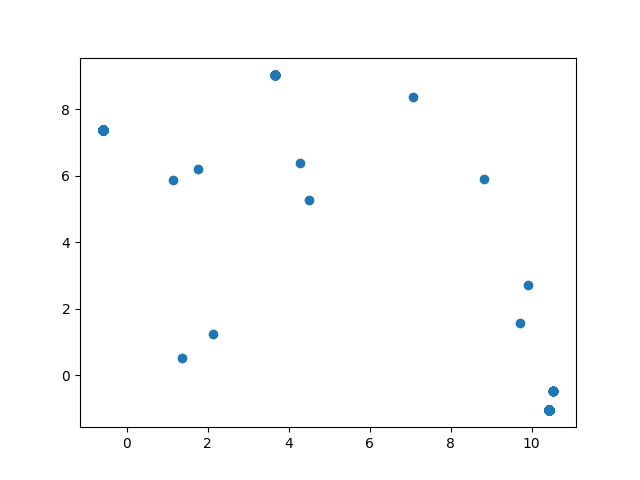
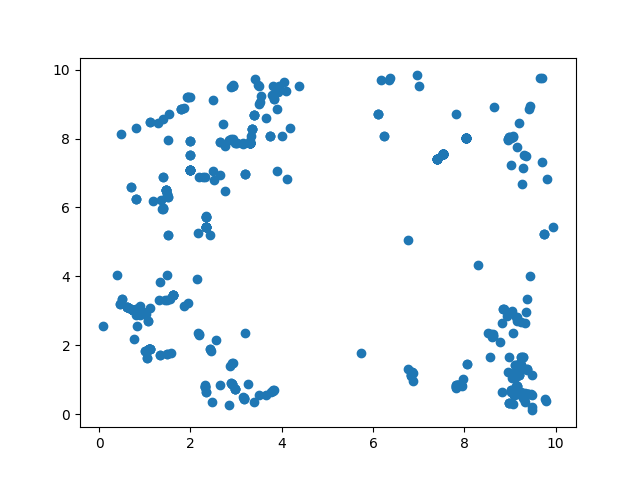
Improved clustering.

diff --git a/main.py b/main.py
@@ -7,6 +7,7 @@
 AB_lengths = []
 debug = False
 
+
 import numpy as np
 
 
@@ -36,23 +37,23 @@ def normalize_2D(matrix):
     return matrix
 
 
-from sklearn.datasets.samples_generator import make_blobs
-AG, y = make_blobs(n_samples=50, centers=5, n_features=2, random_state=0)
-AB = np.random.rand(10,2)*10
 
 haf_cell_index=0
 
-def main(AG,AB,iterations): 
+def main(AG, AB, iterations, p_select, n_clones, learn_rate, p_haf_cells, M_threshold): 
     i=0
+
+    print ("AB Shape:")
+    print (AB.shape)
+
     while (i<iterations):
 
-        p_select, n_clones, learn_rate, select_percent_of_haf_cells, M_threshold = 0.9, 10, 0.5, 1, 0.8
 
         # Set of cell affinities. 
         D = [[np.linalg.norm(ag-ab) for ab in AB] for ag in AG] 
 
         # Arrayify. 
-        D=np.array(D) 
+        D = np.array(D) 
 
         # Set of high affinity (low Euclidean distance) cells.
         H = [list(AB[d[haf_cell_index]]) for d in D.argsort()]
@@ -91,34 +92,40 @@ def main(AG,AB,iterations):
 
         # Clone the cells. 
         H = np.repeat(H,N,axis=0)
+        D = np.repeat(D,N,axis=0)
+
+        if debug:
+            print ("H (Pre-Mutated): ")
+            print (H.shape)
 
         # Mutate the clones.
-        H = np.array([h-learn_rate*(h-AG) for h in H])
+        # Learn rate d is proportional to distance.
+        H = np.array([h-(1-d)*(h-AG) for h,d in zip(H,D)])
 
         if debug:
             print ("H (Mutated): ")
-            print (H)
+            print (H.shape)
 
         # Reduce the dimensionality from 3D to 2D (results from broadcasting the (1,n) dimensional cells to (m,n) dimensions for subtraction)
         H = np.reshape(H, (H.shape[0]*H.shape[1], H.shape[2]))
 
         if debug:
             print ("H: 3D->2D")
-            print (H) 
+            print (H.shape) 
 
         # Calculate the affinity values of the mutated cells. 
         D = np.array([[np.linalg.norm(ag-ab) for ab in H] for ag in AG])
 
         if debug:
-            print ("D:")
-            print (D)
+            print ("D before argsort:")
+            print (D.shape)
         
         # Store the affinity values of the highest affinity mutated cells. 
         HD = [D[i][d[haf_cell_index]] for (i,d) in enumerate(D.argsort())]
 
         if debug:
-            print ("HD:")
-            print (HD)
+            print ("HD after argsort:")
+            print (np.array(HD).shape)
 
         # Find and store the highest affinity mutated cells.
         H = [H[d[haf_cell_index]].tolist() for d in D.argsort()]
@@ -126,63 +133,97 @@ def main(AG,AB,iterations):
 
         if debug:
             print ("H:")
-            print (H)
+            print (H.shape)
 
         # Select a percentage of the highest affinity cells and store in set M as "memory cells".  
-        M = H[:int((select_percent_of_haf_cells)*H.shape[0])]
-
-        if debug:
-            print ("M:")
-            print (M)
+        M = H[:int((p_haf_cells)*H.shape[0])]
 
         # Convert M to an array for computing similarity values S. 
         M = np.array(M) 
 
         if debug:
             print ("M:")
-            print (M)
+            print (M.shape)
 
         # Calculate the similarity between memory cells (self-detection). 
         S = np.array([[np.linalg.norm(np.array(mx)-np.array(my)) for mx in M] for my in M])
 
         if debug:
             print ("S:")
-            print (S)
+            print (S.shape)
 
         # Normalize to reduce the effects of variance. 
         S = normalize_2D(S)
 
         if debug:
-            print (S)
+            print (S.shape)
 
         # Remove the lower half of the triangular matrix to stop the double selection of high affinity memory cells. 
-        S = [[S[i][j] if j >= i+1 else 0 for j in range(S.shape[1])] for i in range(S.shape[0]-1)]
+        #S = [[S[i][j] if j >= i+1 else 0 for j in range(S.shape[1])] for i in range(S.shape[0]-1)]
 
         # Convert S to an array to use to find and match similarity values with corresponding memory cells.
         S = np.array(S)
         
+        # Clonal suppression. 
         # Memory cells with self-similarity values greater than the threshold are selected - because they detect antigens instead of themselves.
-        Mp = M[np.argwhere(S>M_threshold)[:,1]]
+        Mp = M[list(set(np.argwhere(S>M_threshold)[:,1]))]
 
         # Add the memory cells to the full immune network.
         AB = np.append(AB,Mp,axis=0)
 
+        # Network suppression. 
+        S = np.array([[np.linalg.norm(np.array(abx)-np.array(aby)) for abx in AB] for aby in AB])
+
+        # Remove the lower half of the triangular matrix. 
+        #S = [[S[i][j] if j >= i+1 else 0 for j in range(S.shape[1])] for i in range(S.shape[0]-1)]
+
+        S = np.array(S) 
+
         if debug:
-            print (AB.shape) 
+            print ("S0:")
+            print (S.shape)
+
+        AB = AB[list(set(np.argwhere(S>M_threshold)[:,1]))]
+
+        print (AB.shape) 
 
         i+=1
-    return AG,AB 
+    return AB 
 
-AG, AB = main(AG, AB, 1)
-print (AB)
-import matplotlib.pyplot as plt
-from mpl_toolkits.mplot3d import Axes3D
+AG = np.random.rand(100,2)*10
+print (AG.shape)
+# p_select, n_clones, learn_rate, p_haf_cells, M_threshold
+# 0.9, 10, 0.5, 1, 0.8
 
+""" 
+    With the number of antibodies less than antigens (by a factor of 10), then clustering increases in accuracy. 
+"""
 
-plt.scatter(AB[:,0], AB[:,1])
-plt.savefig("AB.png")
-plt.clf()
+def execute(AG=AG, iterations=10, p_select=0.2, n_clones=10, learn_rate=0.5, p_haf_cells=1, M_threshold=0.8, n_experiment=1):
+    
 
-plt.scatter(AG[:,0], AG[:,1])
-plt.savefig("AG.png")
-plt.clf()
+    AB = np.random.rand(10,2)*10
+    AB = main(AG, AB, iterations=iterations, p_select=p_select, n_clones=n_clones, learn_rate=learn_rate, p_haf_cells=p_haf_cells, M_threshold=M_threshold)
+    
+    #print (AB.shape)
+    
+    import matplotlib.pyplot as plt
+    from mpl_toolkits.mplot3d import Axes3D
+
+    title = 0.1+(0.1*n_experiment)
+    #plt.title("p_select=" + str(title))
+    plt.scatter(AB[:,0], AB[:,1])
+    plt.savefig("AB" + str(n_experiment) + ".png")
+    plt.clf()
+
+    #plt.title("p_select=" + str(title))
+    plt.scatter(AG[:,0], AG[:,1])
+    plt.savefig("AG" + str(n_experiment) + ".png")
+    plt.clf()
+
+execute(n_experiment=1)
+# execute(p_select=0.3, n_experiment=2)
+# execute(p_select=0.5, n_experiment=3)
+# execute(p_select=0.7, n_experiment=4)
+# execute(p_select=0.9, n_experiment=5)
+# execute(p_select=1.0, n_experiment=6)

diff --git a/cluster_data.py b/cluster_data.py
@@ -1,0 +1,47 @@
+print(__doc__)
+
+import numpy as np
+from sklearn.cluster import MeanShift, estimate_bandwidth
+from sklearn.datasets.samples_generator import make_blobs
+
+# #############################################################################
+# Generate sample data
+centers = [[1, 1], [-1, -1], [1, -1]]
+X, _ = make_blobs(n_samples=10000, centers=centers, cluster_std=0.6)
+
+# #############################################################################
+# Compute clustering with MeanShift
+
+# The following bandwidth can be automatically detected using
+bandwidth = estimate_bandwidth(X, quantile=0.2, n_samples=500)
+
+ms = MeanShift(bandwidth=bandwidth, bin_seeding=True)
+ms.fit(X)
+labels = ms.labels_
+cluster_centers = ms.cluster_centers_
+
+labels_unique = np.unique(labels)
+n_clusters_ = len(labels_unique)
+
+print("number of estimated clusters : %d" % n_clusters_)
+
+# #############################################################################
+# Plot result
+import matplotlib.pyplot as plt
+from itertools import cycle
+
+plt.figure(1)
+plt.clf()
+
+colors = cycle('bgrcmykbgrcmykbgrcmykbgrcmyk')
+for k, col in zip(range(n_clusters_), colors):
+    my_members = labels == k
+    cluster_center = cluster_centers[k]
+    plt.plot(X[my_members, 0], X[my_members, 1], col + '.')
+    plt.plot(cluster_center[0], cluster_center[1], 'o', markerfacecolor=col,
+             markeredgecolor='k', markersize=14)
+plt.title('Estimated number of clusters: %d' % n_clusters_)
+plt.savefig("ClusterData.png")
+plt.clf()
+#plt.show()
+#plt.close()
